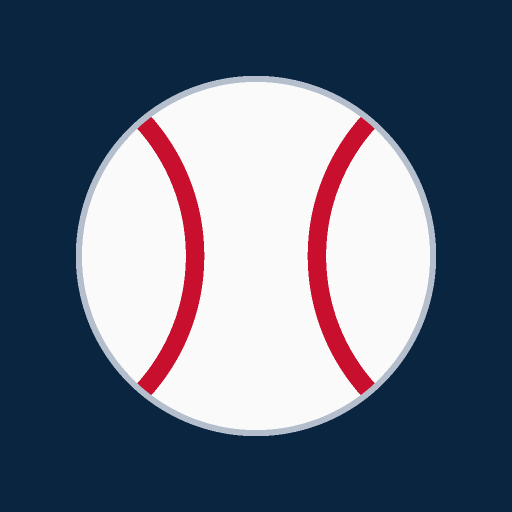
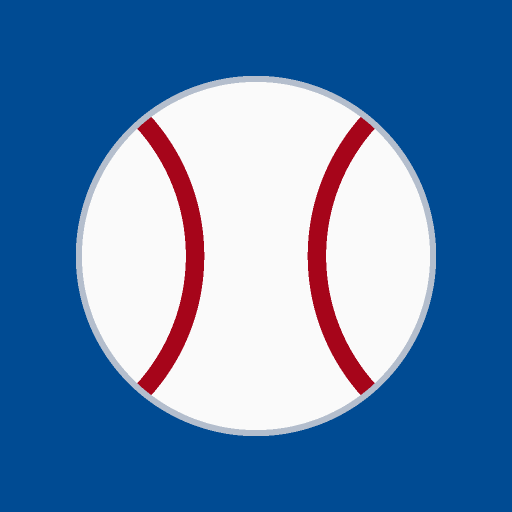
配色改為 #004B93 / #E6E6E6，強調色 #A6051A
Claude-Session: https://claude.ai/code/session_01Y1Yc1KjdjMzvgfU1ZsKYjv

diff --git a/style.css b/style.css
@@ -1,23 +1,23 @@
-/* MLB 文字轉播：藍色系・運動資訊風
- * 版面層級：頂欄(深藍) → 內容卡片 → 重點事件(高對比) → 底部導覽 */
+/* MLB 文字轉播：主色 #004B93、底色 #E6E6E6、強調色 #A6051A
+ * 版面層級：頂欄(主色) → 內容卡片 → 重點事件(強調色) → 底部導覽 */
 :root {
-  --bg: #e9eff8; --card: #ffffff; --text: #0b1b33; --sub: #586a86; --line: #d8e1ee;
-  --navy: #0a2a5e; --navy-2: #14408a; --accent: #1f6feb; --accent-soft: #d6e5ff; --on-accent: #ffffff;
-  --hl: #eaf2ff; --chip: #e1e9f5; --live: #e5383b; --gold: #f2a900; --win: #0b1b33;
-  --shadow: 0 1px 2px rgba(10, 42, 94, .08), 0 6px 16px rgba(10, 42, 94, .06);
+  --bg: #E6E6E6; --card: #ffffff; --text: #14202e; --sub: #5d6874; --line: #d2d2d2;
+  --navy: #004B93; --navy-2: #0a5fb0; --accent: #004B93; --accent-soft: #dbe7f4; --on-accent: #ffffff;
+  --emph: #A6051A; --emph-text: #A6051A; --hl: #f7e8ea; --chip: #E6E6E6; --win: #14202e;
+  --shadow: 0 1px 2px rgba(0, 0, 0, .06), 0 4px 12px rgba(0, 0, 0, .05);
   color-scheme: light;
 }
 :root[data-theme='dark'] {
-  --bg: #070f1e; --card: #0f1b31; --text: #e8eef9; --sub: #8fa2c0; --line: #1c2b46;
-  --navy: #0b1730; --navy-2: #14284d; --accent: #5b9bff; --accent-soft: #17325f; --on-accent: #04122b;
-  --hl: #12264a; --chip: #16253f; --live: #ff5a5f; --gold: #ffc53d; --win: #ffffff; --shadow: none;
+  --bg: #0a1626; --card: #102238; --text: #E6E6E6; --sub: #93a3b8; --line: #1e3350;
+  --navy: #003a73; --navy-2: #0a4f94; --accent: #5aa2ee; --accent-soft: #17365f; --on-accent: #04122b;
+  --emph: #d3152f; --emph-text: #ff7a8a; --hl: #2a1620; --chip: #18304d; --win: #ffffff; --shadow: none;
   color-scheme: dark;
 }
 @media (prefers-color-scheme: dark) {
   :root[data-theme='auto'] {
-    --bg: #070f1e; --card: #0f1b31; --text: #e8eef9; --sub: #8fa2c0; --line: #1c2b46;
-    --navy: #0b1730; --navy-2: #14284d; --accent: #5b9bff; --accent-soft: #17325f; --on-accent: #04122b;
-    --hl: #12264a; --chip: #16253f; --live: #ff5a5f; --gold: #ffc53d; --win: #ffffff; --shadow: none;
+    --bg: #0a1626; --card: #102238; --text: #E6E6E6; --sub: #93a3b8; --line: #1e3350;
+    --navy: #003a73; --navy-2: #0a4f94; --accent: #5aa2ee; --accent-soft: #17365f; --on-accent: #04122b;
+    --emph: #d3152f; --emph-text: #ff7a8a; --hl: #2a1620; --chip: #18304d; --win: #ffffff; --shadow: none;
     color-scheme: dark;
   }
 }
@@ -40,13 +40,13 @@ a { color: inherit; text-decoration: none; }
   padding: calc(10px + env(safe-area-inset-top)) 12px 10px; background: var(--navy); color: #fff;
 }
 .top h1 { margin: 0; font-size: 19px; font-weight: 800; letter-spacing: .5px; flex: 1; min-width: 0; white-space: nowrap; overflow: hidden; text-overflow: ellipsis; }
-.top .upd { font-size: 11px; color: rgba(255, 255, 255, .6); font-variant-numeric: tabular-nums; }
+.top .upd { font-size: 11px; color: rgba(255, 255, 255, .65); font-variant-numeric: tabular-nums; }
 .top button {
-  min-width: 36px; height: 36px; padding: 0 10px; border: 1px solid rgba(255, 255, 255, .2); border-radius: 10px;
-  background: rgba(255, 255, 255, .1); color: #fff;
+  min-width: 36px; height: 36px; padding: 0 10px; border: 1px solid rgba(255, 255, 255, .25); border-radius: 10px;
+  background: rgba(255, 255, 255, .12); color: #fff;
 }
-.top button:active { background: rgba(255, 255, 255, .22); }
-.banner { position: sticky; top: calc(56px + env(safe-area-inset-top)); z-index: 19; margin: 0; padding: 8px 12px; background: #b3261e; color: #fff; font-size: 13px; text-align: center; }
+.top button:active { background: rgba(255, 255, 255, .24); }
+.banner { position: sticky; top: calc(56px + env(safe-area-inset-top)); z-index: 19; margin: 0; padding: 8px 12px; background: var(--emph); color: #fff; font-size: 13px; text-align: center; }
 
 main { max-width: 720px; margin: 0 auto; padding: 12px; }
 .loading, .empty { padding: 32px 0; text-align: center; color: var(--sub); }
@@ -70,11 +70,11 @@ main { max-width: 720px; margin: 0 auto; padding: 12px; }
   display: inline-flex; align-items: center; gap: 5px; padding: 2px 9px; border-radius: 999px;
   font-size: 12px; font-weight: 700; white-space: nowrap; font-variant-numeric: tabular-nums;
 }
-.pill.live { background: var(--live); color: #fff; }
+.pill.live { background: var(--emph); color: #fff; }
 .pill.live::before { content: ''; width: 7px; height: 7px; border-radius: 50%; background: #fff; animation: blink 1.4s infinite; }
 .pill.final { background: var(--chip); color: var(--sub); }
 .pill.upcoming { background: var(--accent-soft); color: var(--accent); }
-.pill.other { background: var(--chip); color: var(--gold); }
+.pill.other { background: var(--chip); color: var(--emph-text); }
 @keyframes blink { 50% { opacity: .25; } }
 @media (prefers-reduced-motion: reduce) { .pill.live::before { animation: none; } }
 
@@ -84,7 +84,9 @@ main { max-width: 720px; margin: 0 auto; padding: 12px; }
   height: 42px; min-width: 42px; border: 1px solid var(--line); border-radius: 12px; background: var(--card);
   font-size: 22px; box-shadow: var(--shadow);
 }
-.datebar .pill { font-size: 14px; padding: 0 14px; border-radius: 12px; background: var(--accent); color: var(--on-accent); border: 0; }
+.datebar .pill { font-size: 14px; padding: 0 14px; border-radius: 12px; background: var(--navy); color: #fff; border: 0; }
+:root[data-theme='dark'] .datebar .pill { background: var(--accent); color: var(--on-accent); }
+@media (prefers-color-scheme: dark) { :root[data-theme='auto'] .datebar .pill { background: var(--accent); color: var(--on-accent); } }
 .datebar .pill:disabled { opacity: .35; }
 .dlabel { flex: 1; display: flex; flex-direction: column; align-items: center; line-height: 1.25; }
 .dlabel strong { font-size: 18px; font-weight: 800; }
@@ -101,7 +103,7 @@ main { max-width: 720px; margin: 0 auto; padding: 12px; }
   display: block; background: var(--card); border: 1px solid var(--line); border-radius: 14px; padding: 12px 14px;
   margin-bottom: 10px; box-shadow: var(--shadow);
 }
-.game.live { border-left: 4px solid var(--live); }
+.game.live { border-left: 4px solid var(--emph); }
 .game:active { background: var(--chip); }
 .g-top { display: flex; justify-content: space-between; align-items: center; gap: 8px; font-size: 12px; color: var(--sub); margin-bottom: 8px; }
 .g-row { display: flex; align-items: center; gap: 10px; padding: 3px 0; }
@@ -123,10 +125,10 @@ main { max-width: 720px; margin: 0 auto; padding: 12px; }
   background: linear-gradient(160deg, var(--navy-2), var(--navy)); color: #fff; border-radius: 16px; padding: 14px 14px 12px;
   box-shadow: var(--shadow);
 }
-.h-top { display: flex; justify-content: space-between; align-items: center; gap: 8px; font-size: 12px; color: rgba(255, 255, 255, .7); }
+.h-top { display: flex; justify-content: space-between; align-items: center; gap: 8px; font-size: 12px; color: rgba(255, 255, 255, .75); }
 .h-score { display: grid; grid-template-columns: 1fr auto 1fr; align-items: center; gap: 8px; margin: 10px 0 8px; }
 .h-team .ab { font-size: 24px; font-weight: 800; letter-spacing: 1px; line-height: 1.1; }
-.h-team .zn { font-size: 12px; color: rgba(255, 255, 255, .7); }
+.h-team .zn { font-size: 12px; color: rgba(255, 255, 255, .75); }
 .h-team.home { text-align: right; }
 .h-nums { display: flex; align-items: center; gap: 10px; font-variant-numeric: tabular-nums; }
 .h-nums b { font-size: 46px; font-weight: 800; line-height: 1; min-width: 26px; text-align: center; }
@@ -134,17 +136,17 @@ main { max-width: 720px; margin: 0 auto; padding: 12px; }
 .h-nums b.dim { color: rgba(255, 255, 255, .45); }
 .scroll { overflow-x: auto; -webkit-overflow-scrolling: touch; }
 table { border-collapse: collapse; width: 100%; font-variant-numeric: tabular-nums; }
-.line th, .line td { padding: 4px 6px; text-align: center; font-size: 13px; min-width: 24px; color: rgba(255, 255, 255, .88); }
-.line thead th { color: rgba(255, 255, 255, .5); font-weight: 500; border-bottom: 1px solid rgba(255, 255, 255, .16); }
+.line th, .line td { padding: 4px 6px; text-align: center; font-size: 13px; min-width: 24px; color: rgba(255, 255, 255, .9); }
+.line thead th { color: rgba(255, 255, 255, .55); font-weight: 500; border-bottom: 1px solid rgba(255, 255, 255, .2); }
 .line .tn { text-align: left; font-weight: 800; padding-left: 0; min-width: 44px; color: #fff; }
-.line .tot { font-weight: 800; color: #fff; border-left: 1px solid rgba(255, 255, 255, .2); }
-.sit { display: flex; align-items: center; gap: 14px; margin-top: 10px; padding-top: 10px; border-top: 1px solid rgba(255, 255, 255, .16); }
+.line .tot { font-weight: 800; color: #fff; border-left: 1px solid rgba(255, 255, 255, .25); }
+.sit { display: flex; align-items: center; gap: 14px; margin-top: 10px; padding-top: 10px; border-top: 1px solid rgba(255, 255, 255, .2); }
 .bases { width: 64px; height: 50px; flex: none; }
-.bases polygon { fill: rgba(255, 255, 255, .12); stroke: rgba(255, 255, 255, .45); stroke-width: 1; }
-.bases polygon.on { fill: var(--gold); stroke: var(--gold); }
+.bases polygon { fill: rgba(255, 255, 255, .14); stroke: rgba(255, 255, 255, .5); stroke-width: 1; }
+.bases polygon.on { fill: #fff; stroke: #fff; }
 .cnt { font-weight: 800; letter-spacing: .3px; }
-.mu { font-size: 13px; color: rgba(255, 255, 255, .72); }
-.dec { margin-top: 10px; padding-top: 8px; border-top: 1px solid rgba(255, 255, 255, .16); font-size: 13px; color: rgba(255, 255, 255, .8); }
+.mu { font-size: 13px; color: rgba(255, 255, 255, .8); }
+.dec { margin-top: 10px; padding-top: 8px; border-top: 1px solid rgba(255, 255, 255, .2); font-size: 13px; color: rgba(255, 255, 255, .85); }
 
 /* ---------- 分頁、篩選 ---------- */
 .seg { display: flex; gap: 4px; margin: 12px 0 8px; background: var(--card); border: 1px solid var(--line); padding: 4px; border-radius: 12px; box-shadow: var(--shadow); }
@@ -155,9 +157,11 @@ table { border-collapse: collapse; width: 100%; font-variant-numeric: tabular-nu
 
 .chips { display: flex; gap: 8px; margin: 4px 0 8px; flex-wrap: wrap; }
 .chips button { height: 34px; padding: 0 16px; border: 1px solid var(--line); border-radius: 17px; background: var(--card); color: var(--sub); font-weight: 600; }
-.chips button.on { background: var(--accent); border-color: var(--accent); color: var(--on-accent); }
+.chips button.on { background: var(--navy); border-color: var(--navy); color: #fff; }
+:root[data-theme='dark'] .chips button.on { background: var(--accent); border-color: var(--accent); color: var(--on-accent); }
+@media (prefers-color-scheme: dark) { :root[data-theme='auto'] .chips button.on { background: var(--accent); border-color: var(--accent); color: var(--on-accent); } }
 
-/* ---------- 文字轉播 ---------- */
+/* ---------- 文字轉播（強調色只用在得分 / 全壘打 / 進行中）---------- */
 .inn {
   display: flex; align-items: baseline; gap: 8px; margin: 18px 2px 8px; padding-bottom: 6px;
   border-bottom: 2px solid var(--line); font-size: 14px; font-weight: 800;
@@ -170,22 +174,21 @@ table { border-collapse: collapse; width: 100%; font-variant-numeric: tabular-nu
 .play.out { border-left-color: var(--line); }
 .play.base { border-left-color: var(--accent-soft); }
 .play.hit { border-left-color: var(--accent); }
-.play.score { border-left-color: var(--accent); background: var(--hl); }
-.play.hr { border-left-color: var(--gold); background: var(--hl); }
-.play.live { border-left-color: var(--live); }
+.play.score { border-left-color: var(--emph); background: var(--hl); }
+.play.hr { border-left: 7px solid var(--emph); background: var(--hl); }
+.play.live { border-left-color: var(--emph); }
 .p-top { display: flex; justify-content: space-between; align-items: center; gap: 8px; margin-bottom: 4px; }
 .tag { padding: 1px 8px; border-radius: 5px; font-size: 11px; font-weight: 800; letter-spacing: .5px; background: var(--chip); color: var(--sub); }
 .play.hit .tag { background: var(--accent-soft); color: var(--accent); }
-.play.score .tag { background: var(--accent); color: var(--on-accent); }
-.play.hr .tag { background: var(--gold); color: #3a2a00; }
-.play.live .tag { background: var(--live); color: #fff; }
+.play.score .tag, .play.hr .tag, .play.live .tag { background: var(--emph); color: #fff; }
 .p-score { padding: 1px 8px; border-radius: 6px; background: var(--navy); color: #fff; font-size: 12px; font-weight: 800; font-variant-numeric: tabular-nums; }
 :root[data-theme='dark'] .p-score { background: var(--accent); color: var(--on-accent); }
 @media (prefers-color-scheme: dark) { :root[data-theme='auto'] .p-score { background: var(--accent); color: var(--on-accent); } }
 .p-body { font-size: 15px; }
 .p-body .ev { font-weight: 800; }
 .play.hr .p-body, .play.score .p-body { font-size: 16px; }
-.p-body em { margin-left: 6px; font-style: normal; font-weight: 800; color: var(--accent); font-size: 13px; }
+.play.hr .p-body .ev, .play.score .p-body .ev { color: var(--emph-text); }
+.p-body em { margin-left: 6px; font-style: normal; font-weight: 800; color: var(--emph-text); font-size: 13px; }
 .p-meta, .hd, .sub { font-size: 12px; color: var(--sub); margin-top: 2px; }
 .sub { color: var(--text); opacity: .75; }
 .en { display: none; margin-top: 6px; padding-top: 6px; border-top: 1px dashed var(--line); font-size: 13px; color: var(--sub); }
@@ -193,20 +196,16 @@ table { border-collapse: collapse; width: 100%; font-variant-numeric: tabular-nu
 .more { display: block; width: 100%; height: 42px; margin: 8px 0; border: 1px solid var(--line); border-radius: 10px; background: var(--card); color: var(--sub); font-weight: 600; }
 .fab {
   position: fixed; left: 50%; transform: translateX(-50%); bottom: calc(80px + env(safe-area-inset-bottom)); z-index: 30;
-  height: 38px; padding: 0 18px; border: 0; border-radius: 19px; background: var(--accent); color: var(--on-accent); font-weight: 700;
+  height: 38px; padding: 0 18px; border: 0; border-radius: 19px; background: var(--emph); color: #fff; font-weight: 700;
   box-shadow: 0 6px 16px rgba(0, 0, 0, .3);
 }
 
 /* ---------- 表格（數據 / 排名）---------- */
 .box { background: var(--card); border: 1px solid var(--line); border-radius: 10px; font-size: 13px; overflow: hidden; }
 .box th, .box td { padding: 7px 6px; text-align: right; white-space: nowrap; border-bottom: 1px solid var(--line); }
-.box thead th { background: var(--navy); color: rgba(255, 255, 255, .85); font-weight: 600; font-size: 12px; }
-:root[data-theme='dark'] .box thead th { background: var(--navy-2); }
-@media (prefers-color-scheme: dark) { :root[data-theme='auto'] .box thead th { background: var(--navy-2); } }
+.box thead th { background: var(--navy); color: rgba(255, 255, 255, .88); font-weight: 600; font-size: 12px; }
 .box thead th:first-child, .box tbody th { text-align: left; position: sticky; left: 0; background: var(--card); font-weight: 700; }
 .box thead th:first-child { background: var(--navy); color: #fff; }
-:root[data-theme='dark'] .box thead th:first-child { background: var(--navy-2); }
-@media (prefers-color-scheme: dark) { :root[data-theme='auto'] .box thead th:first-child { background: var(--navy-2); } }
 .box tbody th small { margin-left: 6px; color: var(--sub); font-weight: 500; }
 .box tbody tr:nth-child(even) td, .box tbody tr:nth-child(even) th { background: color-mix(in srgb, var(--chip) 45%, var(--card)); }
 .box tr.sub th { padding-left: 20px; font-weight: 500; }

diff --git a/app.js b/app.js
@@ -711,7 +711,7 @@
     document.documentElement.dataset.theme = S.theme;
     const dark = S.theme === 'dark' || (S.theme === 'auto' && matchMedia('(prefers-color-scheme: dark)').matches);
     const m = $('meta[name=theme-color]');
-    if (m) m.content = dark ? '#0b1730' : '#0a2a5e';
+    if (m) m.content = dark ? '#003a73' : '#004B93';
     const b = $('#themeBtn');
     b.textContent = { auto: '◐', light: '☀', dark: '☾' }[S.theme];
     b.title = { auto: '主題：跟隨系統', light: '主題：淺色', dark: '主題：深色' }[S.theme];

diff --git a/sw.js b/sw.js
@@ -1,7 +1,7 @@
 /* Service Worker：只快取「網頁外殼」，MLB 資料一律走網路，不快取。
  * 外殼採「網路優先、離線才用快取」，所以更新網頁後重新開啟就是新版，不會卡在舊版。
  * 若要強制清掉舊快取，修改 VERSION 即可。 */
-const VERSION = 'v2';
+const VERSION = 'v3';
 const CACHE = 'mlb-shell-' + VERSION;
 const SHELL = ['./', 'index.html', 'style.css', 'app.js', 'manifest.webmanifest',
   'icons/icon-192.png', 'icons/icon-512.png', 'icons/apple-touch-icon.png'];

diff --git a/index.html b/index.html
@@ -4,7 +4,7 @@
   <meta charset="utf-8">
   <meta name="viewport" content="width=device-width,initial-scale=1,viewport-fit=cover">
   <title>MLB 文字轉播</title>
-  <meta name="theme-color" content="#0a2a5e">
+  <meta name="theme-color" content="#004B93">
   <meta name="description" content="MLB 比分、逐打席文字轉播與排名（個人使用）">
   <link rel="manifest" href="manifest.webmanifest">
   <link rel="icon" href="icons/icon-192.png">
